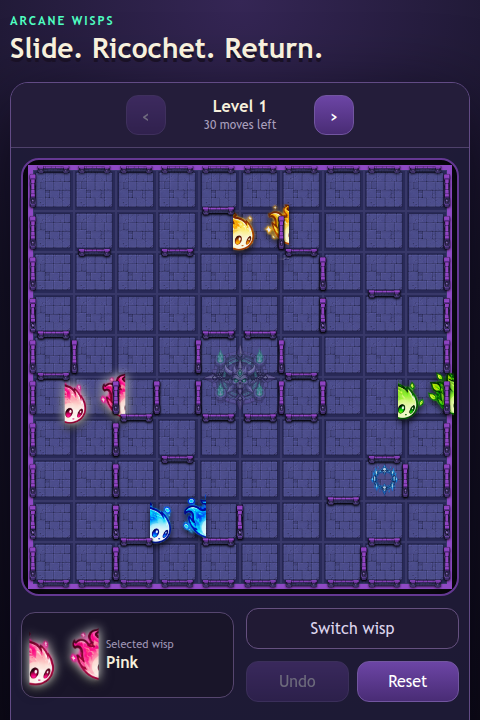
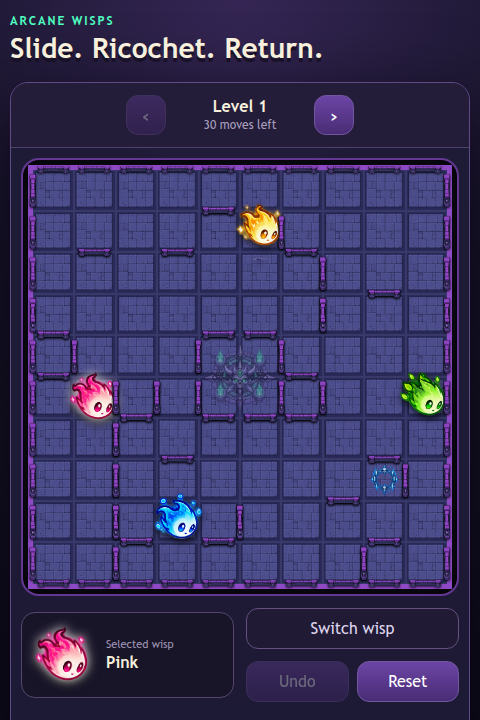
fix(devvit): wisp sprite animation cycles in place instead of scrolling
- wisp-frames keyframe animated background-position-x to 100%; with
  background-size 400% + steps(4) that renders positions 0/25/50/75% —
  misaligned offsets between the four frames, so the sprite visibly
  drifted through its tile
- animating to 133.3333% makes steps(4) land on 0/33.33/66.67/100%,
  i.e. the four whole frames; the endpoint is one frame past the sheet
  and never painted
- regenerated screenshots with correctly aligned sprites

diff --git a/devvit/src/client/styles.css b/devvit/src/client/styles.css
@@ -63,7 +63,8 @@ button:disabled { cursor: default; opacity: .35; }
 .wisp-up { --rotation: -90deg; }
 .wisp-down { --rotation: 90deg; }
 .selected-wisp-sprite { --scale: 1.08; filter: drop-shadow(0 0 5px #fff) drop-shadow(0 4px 3px #000c); }
-@keyframes wisp-frames { to { background-position-x: 100%; } }
+/* steps(4) lands on 0/33.33/66.67/100% — the four whole frames; 133.33% is one frame past the end and never painted */
+@keyframes wisp-frames { to { background-position-x: 133.3333%; } }
 .center-emblem { position: absolute; z-index: 2; left: 40%; top: 40%; width: 20%; height: 20%; object-fit: contain; opacity: .34; pointer-events: none; }
 .controls { display: flex; flex-direction: column; justify-content: center; gap: 12px; }
 .selected-wisp { display: flex; align-items: center; gap: 10px; padding: 10px; border: 1px solid #56466f; border-radius: 14px; background: #191529; }
